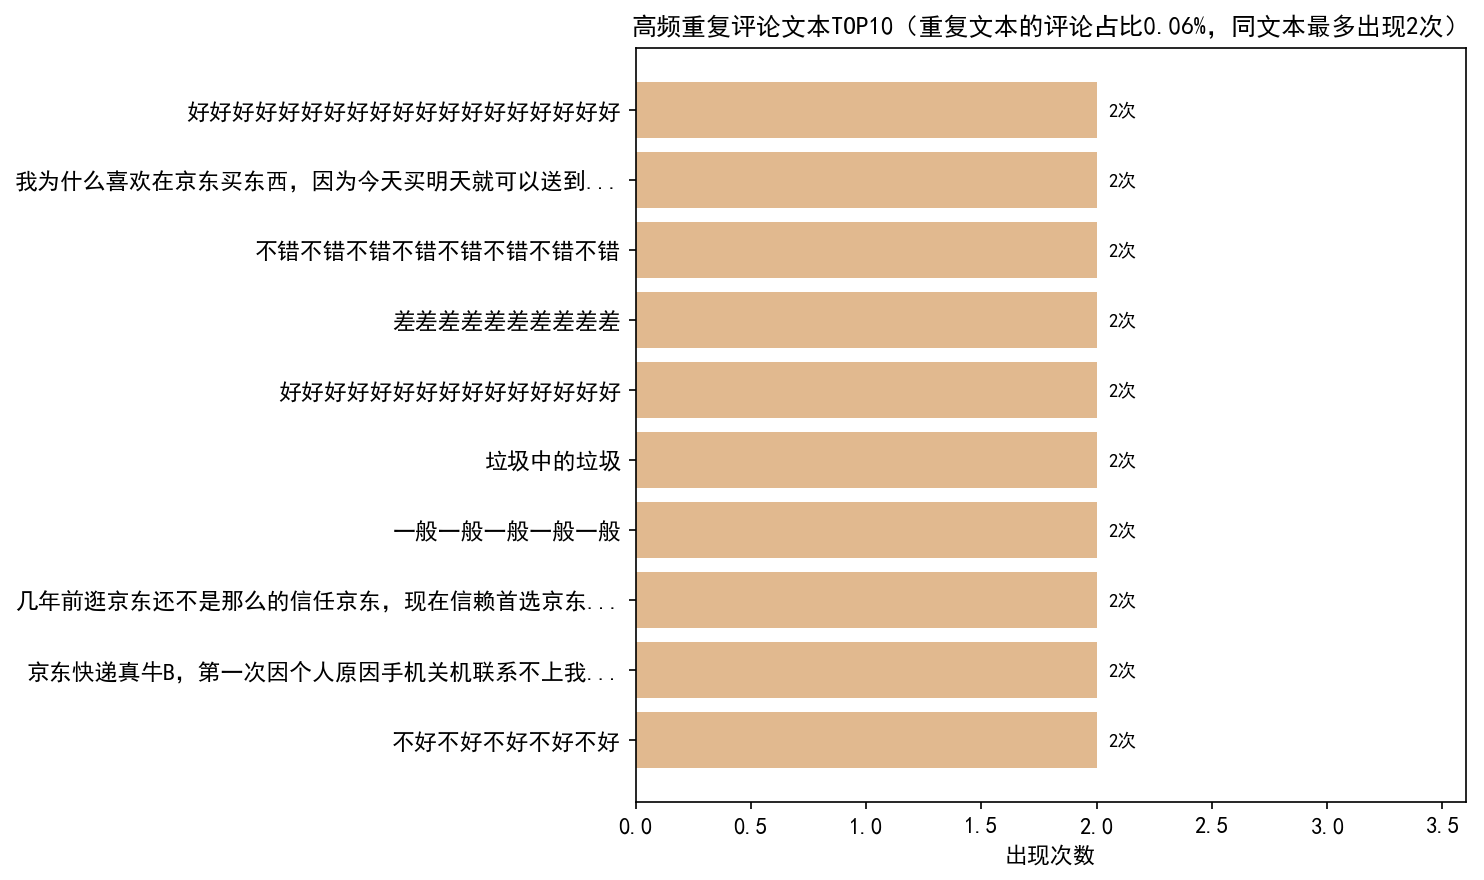
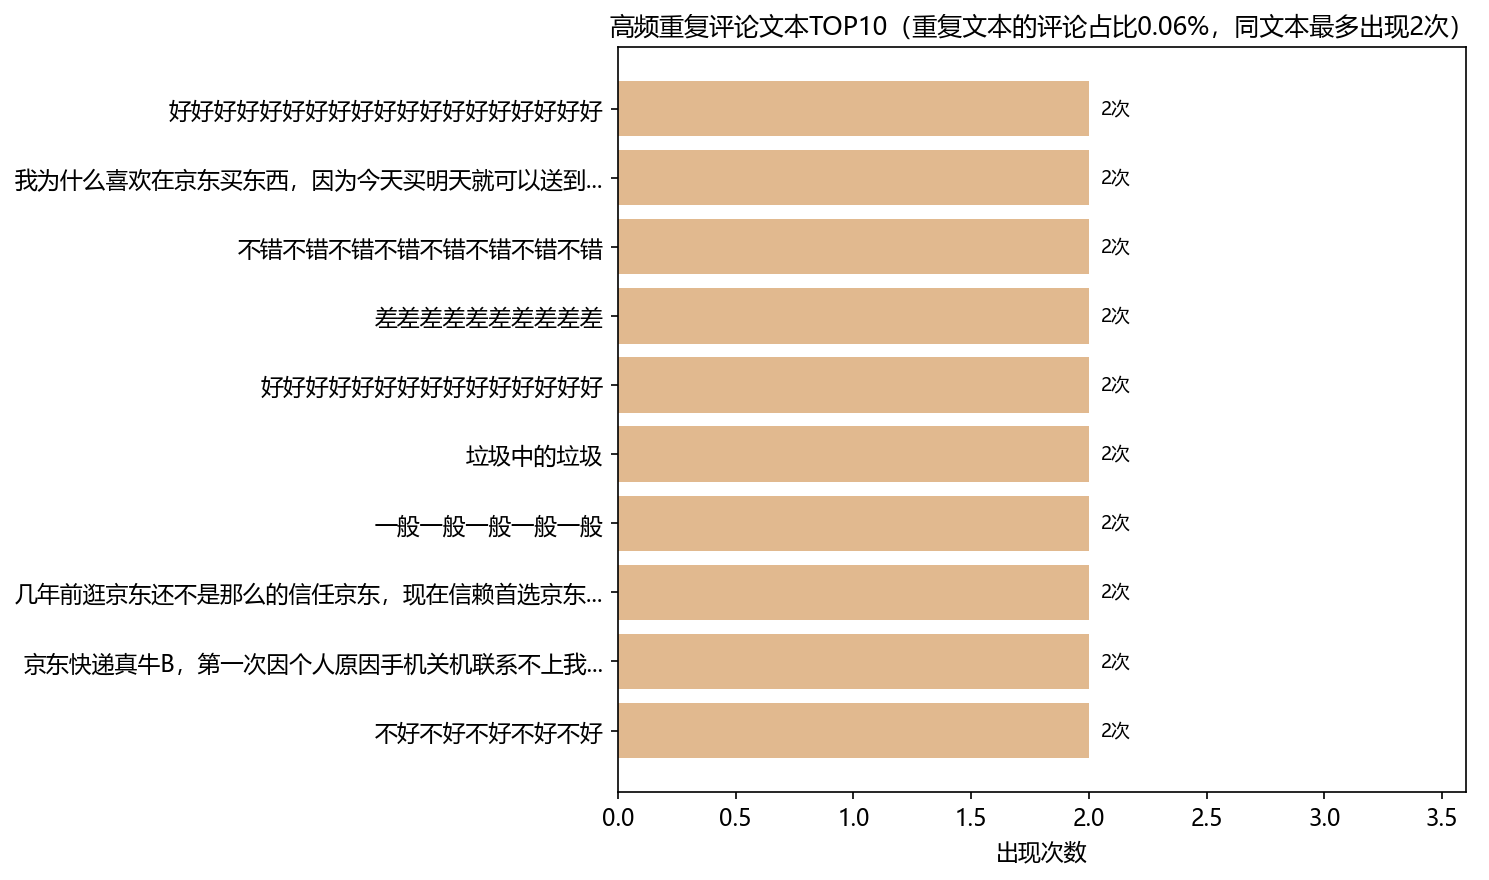
添加模型组配置入口并修复 EDA 中文字体崩溃
- 新增 src/config.py：模型组与后续脚本的统一入口。
  路径全部基于文件位置推导（换机器/换目录/换系统都不用改）；标签定义从
  final_data/class.txt 派生，不另抄一份；提供 load_csv / load_fasttext_split
  两个函数，把 BOM 与 QUOTE_NONE 两个坑封在内部；含各划分数据集路径、
  models/ 产物路径与训练超参建议初值。
- eda_analysis.py：字体改为跨平台探测，找不到中文字体时跳过图 9 并提示，
  不再抛 OSError 崩在图 8 之后；图表随之用 Microsoft YaHei 重绘。
- 数据组四个脚本保持自包含，未依赖 config。

Changed region(s): [[0.0, 0.092, 0.9919, 0.9818], [0.403, 0.0, 0.9919, 0.0614]]

diff --git a/src/config.py b/src/config.py
@@ -1,0 +1,165 @@
+# ============================================
+# 项目配置 —— 面向模型组与后续新脚本
+#
+# 用法（脚本放在 src/ 下时）：
+#     from config import DATA_DIR, CLASS_ORDER, SENTIMENT_MAP, load_csv
+#
+# 三条设计约定：
+#   1. 所有路径由本文件位置推导，换机器、换目录、换操作系统都不用改
+#   2. 标签定义从 data/processed/final_data/class.txt 读取，不在这里另抄一份，
+#      因此不可能与实际交付的数据脱节
+#   3. 数据清洗流水线（data_preprocess.py / generate_fasttext_data.py /
+#      eda_analysis.py / data_audit.py）**刻意不依赖本文件**：它们必须能单独
+#      复制运行，也不应被模型组的改动影响
+# ============================================
+
+import csv
+from pathlib import Path
+
+import pandas as pd
+
+# ---------- 路径 ----------
+PROJECT_ROOT = Path(__file__).resolve().parents[1]
+DATA_DIR = PROJECT_ROOT / "data" / "processed" / "final_data"
+RAW_CSV = PROJECT_ROOT / "data" / "raw" / "online_shopping_10_cats.csv"
+FIG_DIR = PROJECT_ROOT / "data" / "figures" / "final_data"
+CLASS_FILE = DATA_DIR / "class.txt"
+STOPWORDS_FILE = DATA_DIR / "stopwords.txt"
+
+# ---------- 数据契约 ----------
+SPLITS = ("train", "val", "test")
+COLUMNS = ("review", "label", "cat_l1")
+CAT_COL = "cat_l1"          # 7 个大类，模型要预测的类别
+LABEL_COL = "label"         # 0=负面, 1=正面
+CSV_ENCODING = "utf-8-sig"  # 数据 CSV 带 UTF-8 BOM，必须用 utf-8-sig，
+                            # 否则 pandas 会把首列名读成 '\ufeffreview'
+TXT_ENCODING = "utf-8"
+SENTIMENT_MAP = {0: "负面", 1: "正面"}
+
+# ---------- 标签定义（从 class.txt 派生，切勿另抄一份） ----------
+# class.txt 的行序就是标签编号 0..6，它同时是 train.txt 等文件里类别编号的权威定义。
+if not CLASS_FILE.exists():
+    raise FileNotFoundError(
+        f"找不到 {CLASS_FILE}。它是标签编号的权威来源，"
+        "请确认 data/processed/final_data/ 已从仓库完整拉取。"
+    )
+CLASS_ORDER = tuple(CLASS_FILE.read_text(encoding="utf-8").split())
+CLASS_TO_ID = {name: i for i, name in enumerate(CLASS_ORDER)}
+NUM_CLASSES = len(CLASS_ORDER)
+
+# ---------- 训练超参建议初值（模型组按需覆盖） ----------
+# 这些只是起点，不是硬性要求；模型组可自行调整，或改成命令行参数。
+EPOCHS = 3
+BATCH_SIZE = 32
+LR = 5e-5            # BERT 微调常用量级
+# max_len 取 256 而非 128：有 10.2% 的评论超过 128 字且多为长评论（图书类中位数 145 字），
+# 用 128 会整条截断；超过 510 字的仅 0.49%，512 上限不构成问题。
+MAX_LEN = 256
+RANDOM_SEED = 42     # 划分与训练的随机种子（清洗脚本用的也是 42）
+
+
+# ---------- 路径辅助 ----------
+def data_file(name: str) -> Path:
+    """在 final_data 目录内拼出文件路径，并校验没有越出该目录。"""
+    path = (DATA_DIR / name).resolve()
+    if path.parent != DATA_DIR:
+        raise ValueError(f"路径越界，已拒绝：{name}")
+    return path
+
+
+def _check_split(split: str) -> None:
+    if split not in SPLITS:
+        raise ValueError(f"split 只能是 {SPLITS} 之一，收到：{split!r}")
+
+
+def split_csv(split: str) -> Path:
+    """某个划分的 CSV 路径（train / val / test）。"""
+    _check_split(split)
+    return data_file(f"{split}.csv")
+
+
+def split_txt(split: str) -> Path:
+    """某个划分的 TSV 路径（train / val / test）。"""
+    _check_split(split)
+    return data_file(f"{split}.txt")
+
+
+# ---------- 各划分的数据路径 ----------
+# 常见用途直接取常量；需要按名字遍历时用上面的 split_csv() / split_txt()
+TRAIN_CSV = data_file("train.csv")
+VAL_CSV = data_file("val.csv")
+TEST_CSV = data_file("test.csv")
+TRAIN_TXT = data_file("train.txt")
+VAL_TXT = data_file("val.txt")
+TEST_TXT = data_file("test.txt")
+
+# ---------- 模型侧输出路径 ----------
+MODELS_DIR = PROJECT_ROOT / "models"    # 仓库已建好该目录；模型与中间产物都放这里
+
+
+def model_path(name: str) -> Path:
+    """模型 / 中间产物的保存路径（相对 models/ 给出，可含子目录）。
+
+    例：model_path("rf/model.pkl")、model_path("bert/bert_classifier.pt")
+    目录不会自动创建，需要时自行 mkdir。
+    """
+    path = (MODELS_DIR / name).resolve()
+    if MODELS_DIR not in path.parents:
+        raise ValueError(f"路径越界，已拒绝：{name}")
+    return path
+
+
+# ---------- 读数据 ----------
+def load_csv(split: str) -> pd.DataFrame:
+    """读取某个划分的 CSV，返回 DataFrame（列：review, label, cat_l1）。
+
+    内部已按 utf-8-sig 处理 BOM，直接 pd.read_csv(path) 会把首列名读成 '\\ufeffreview'。
+    """
+    return pd.read_csv(split_csv(split), encoding=CSV_ENCODING)
+
+
+def load_fasttext_split(split: str):
+    """读取某个划分的 TSV，返回 (texts, labels)，label 为 0..6 的整数列表。
+
+    文件格式是「文本<Tab>类别编号」。必须用 quoting=csv.QUOTE_NONE：有 4 条评论
+    以 '"' 开头，默认引号规则会把它们当成带引号的字段并合并相邻行，
+    train 会静默少读 487 行（43820 → 43333）而不报错。
+    """
+    frame = pd.read_csv(
+        split_txt(split), sep="\t", header=None, names=["review", "label"],
+        quoting=csv.QUOTE_NONE, encoding=TXT_ENCODING,
+    )
+    return frame["review"].tolist(), frame["label"].astype(int).tolist()
+
+
+def load_stopwords() -> set:
+    """EDA 用的停用词表（data/processed/final_data/stopwords.txt，手工维护的输入）。"""
+    lines = STOPWORDS_FILE.read_text(encoding=TXT_ENCODING).splitlines()
+    return {line.strip() for line in lines if line.strip()}
+
+
+if __name__ == "__main__":
+    # 直接运行可自检配置：python src/config.py
+    print("=" * 56)
+    print("配置自检")
+    print("=" * 56)
+    print(f"PROJECT_ROOT : {PROJECT_ROOT}")
+    print(f"DATA_DIR     : {DATA_DIR}")
+    print(f"类别数        : {NUM_CLASSES}")
+    for i, name in enumerate(CLASS_ORDER):
+        print(f"  {i} = {name}")
+    print(f"情感标签      : {SENTIMENT_MAP}")
+    print(f"超参建议初值  : EPOCHS={EPOCHS} BATCH_SIZE={BATCH_SIZE} LR={LR} MAX_LEN={MAX_LEN}")
+    print("-" * 56)
+    print("各划分数据路径：")
+    for split in SPLITS:
+        print(f"  {split:<6} {split_csv(split)}")
+        print(f"  {'':<6} {split_txt(split)}")
+    print(f"  {'模型侧':<5} {MODELS_DIR}（model_path('xxx') 取具体文件）")
+    print("-" * 56)
+    for split in SPLITS:
+        frame = load_csv(split)
+        texts, labels = load_fasttext_split(split)
+        print(f"{split:<6} CSV {len(frame):>6} 行   TSV {len(texts):>6} 行   "
+              f"类别数 {frame[CAT_COL].nunique()}")
+    print("✅ 自检通过：路径可解析、class.txt 可读、CSV 与 TSV 行数一致")
